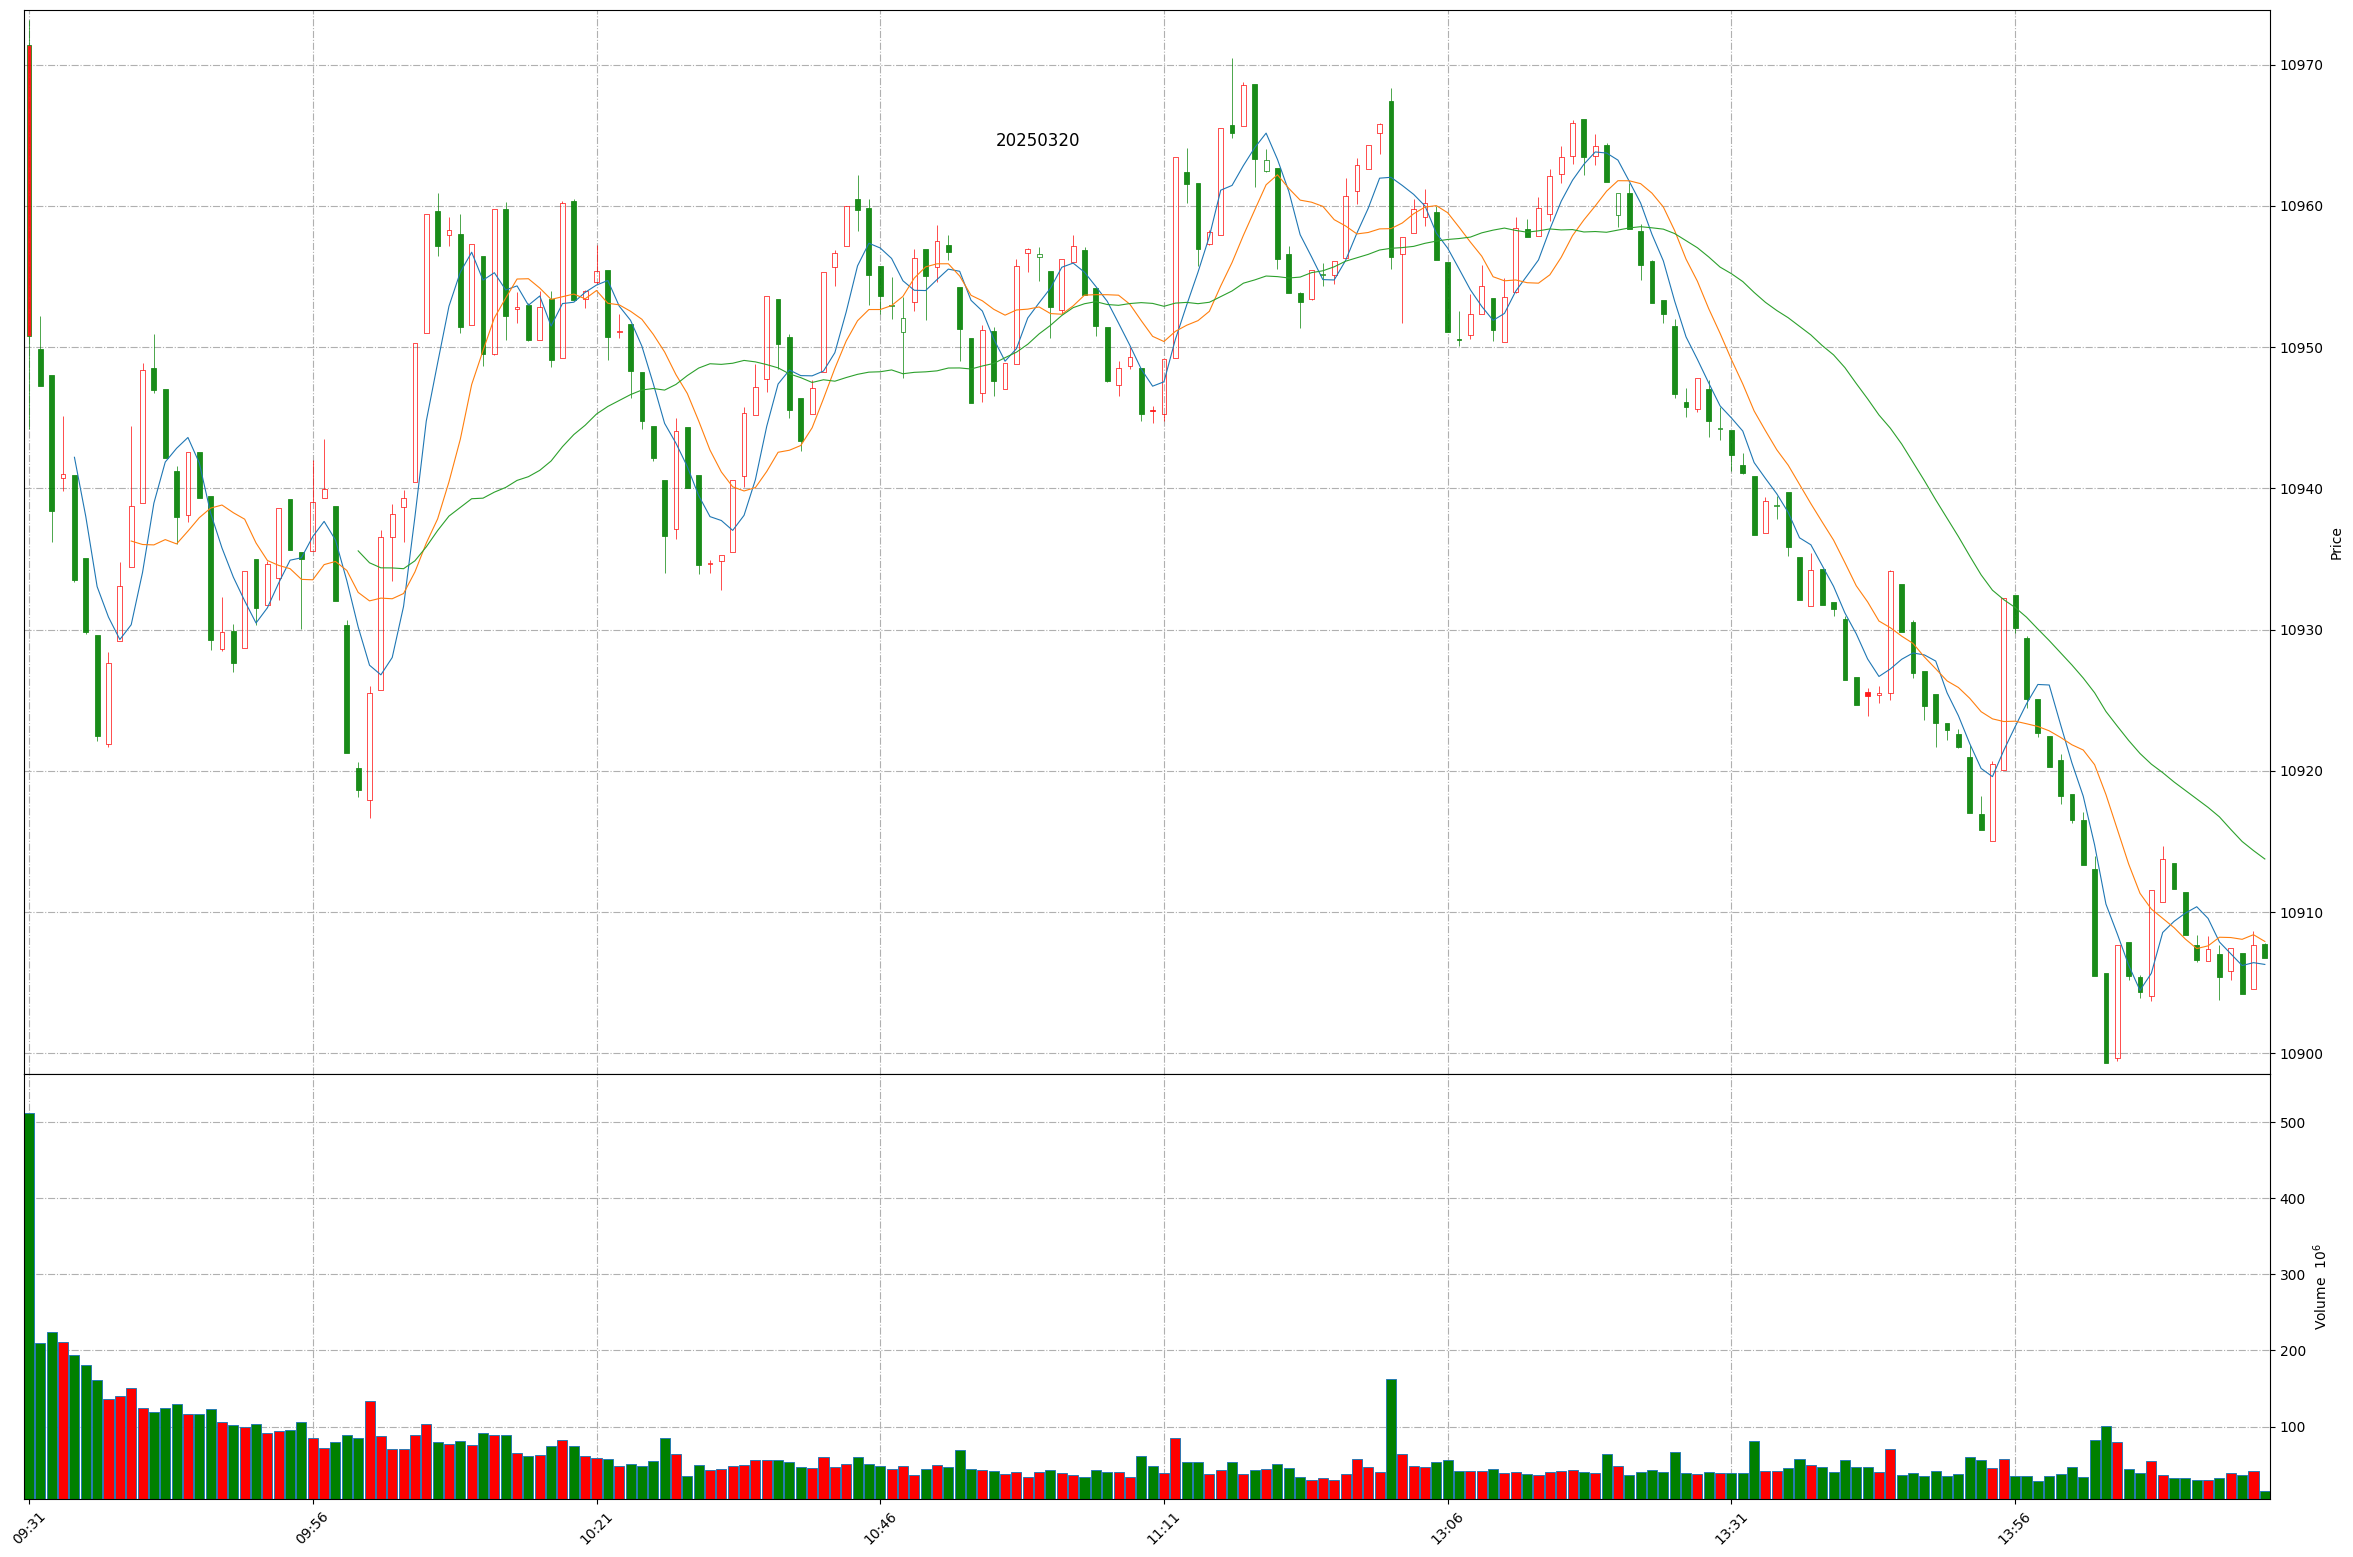
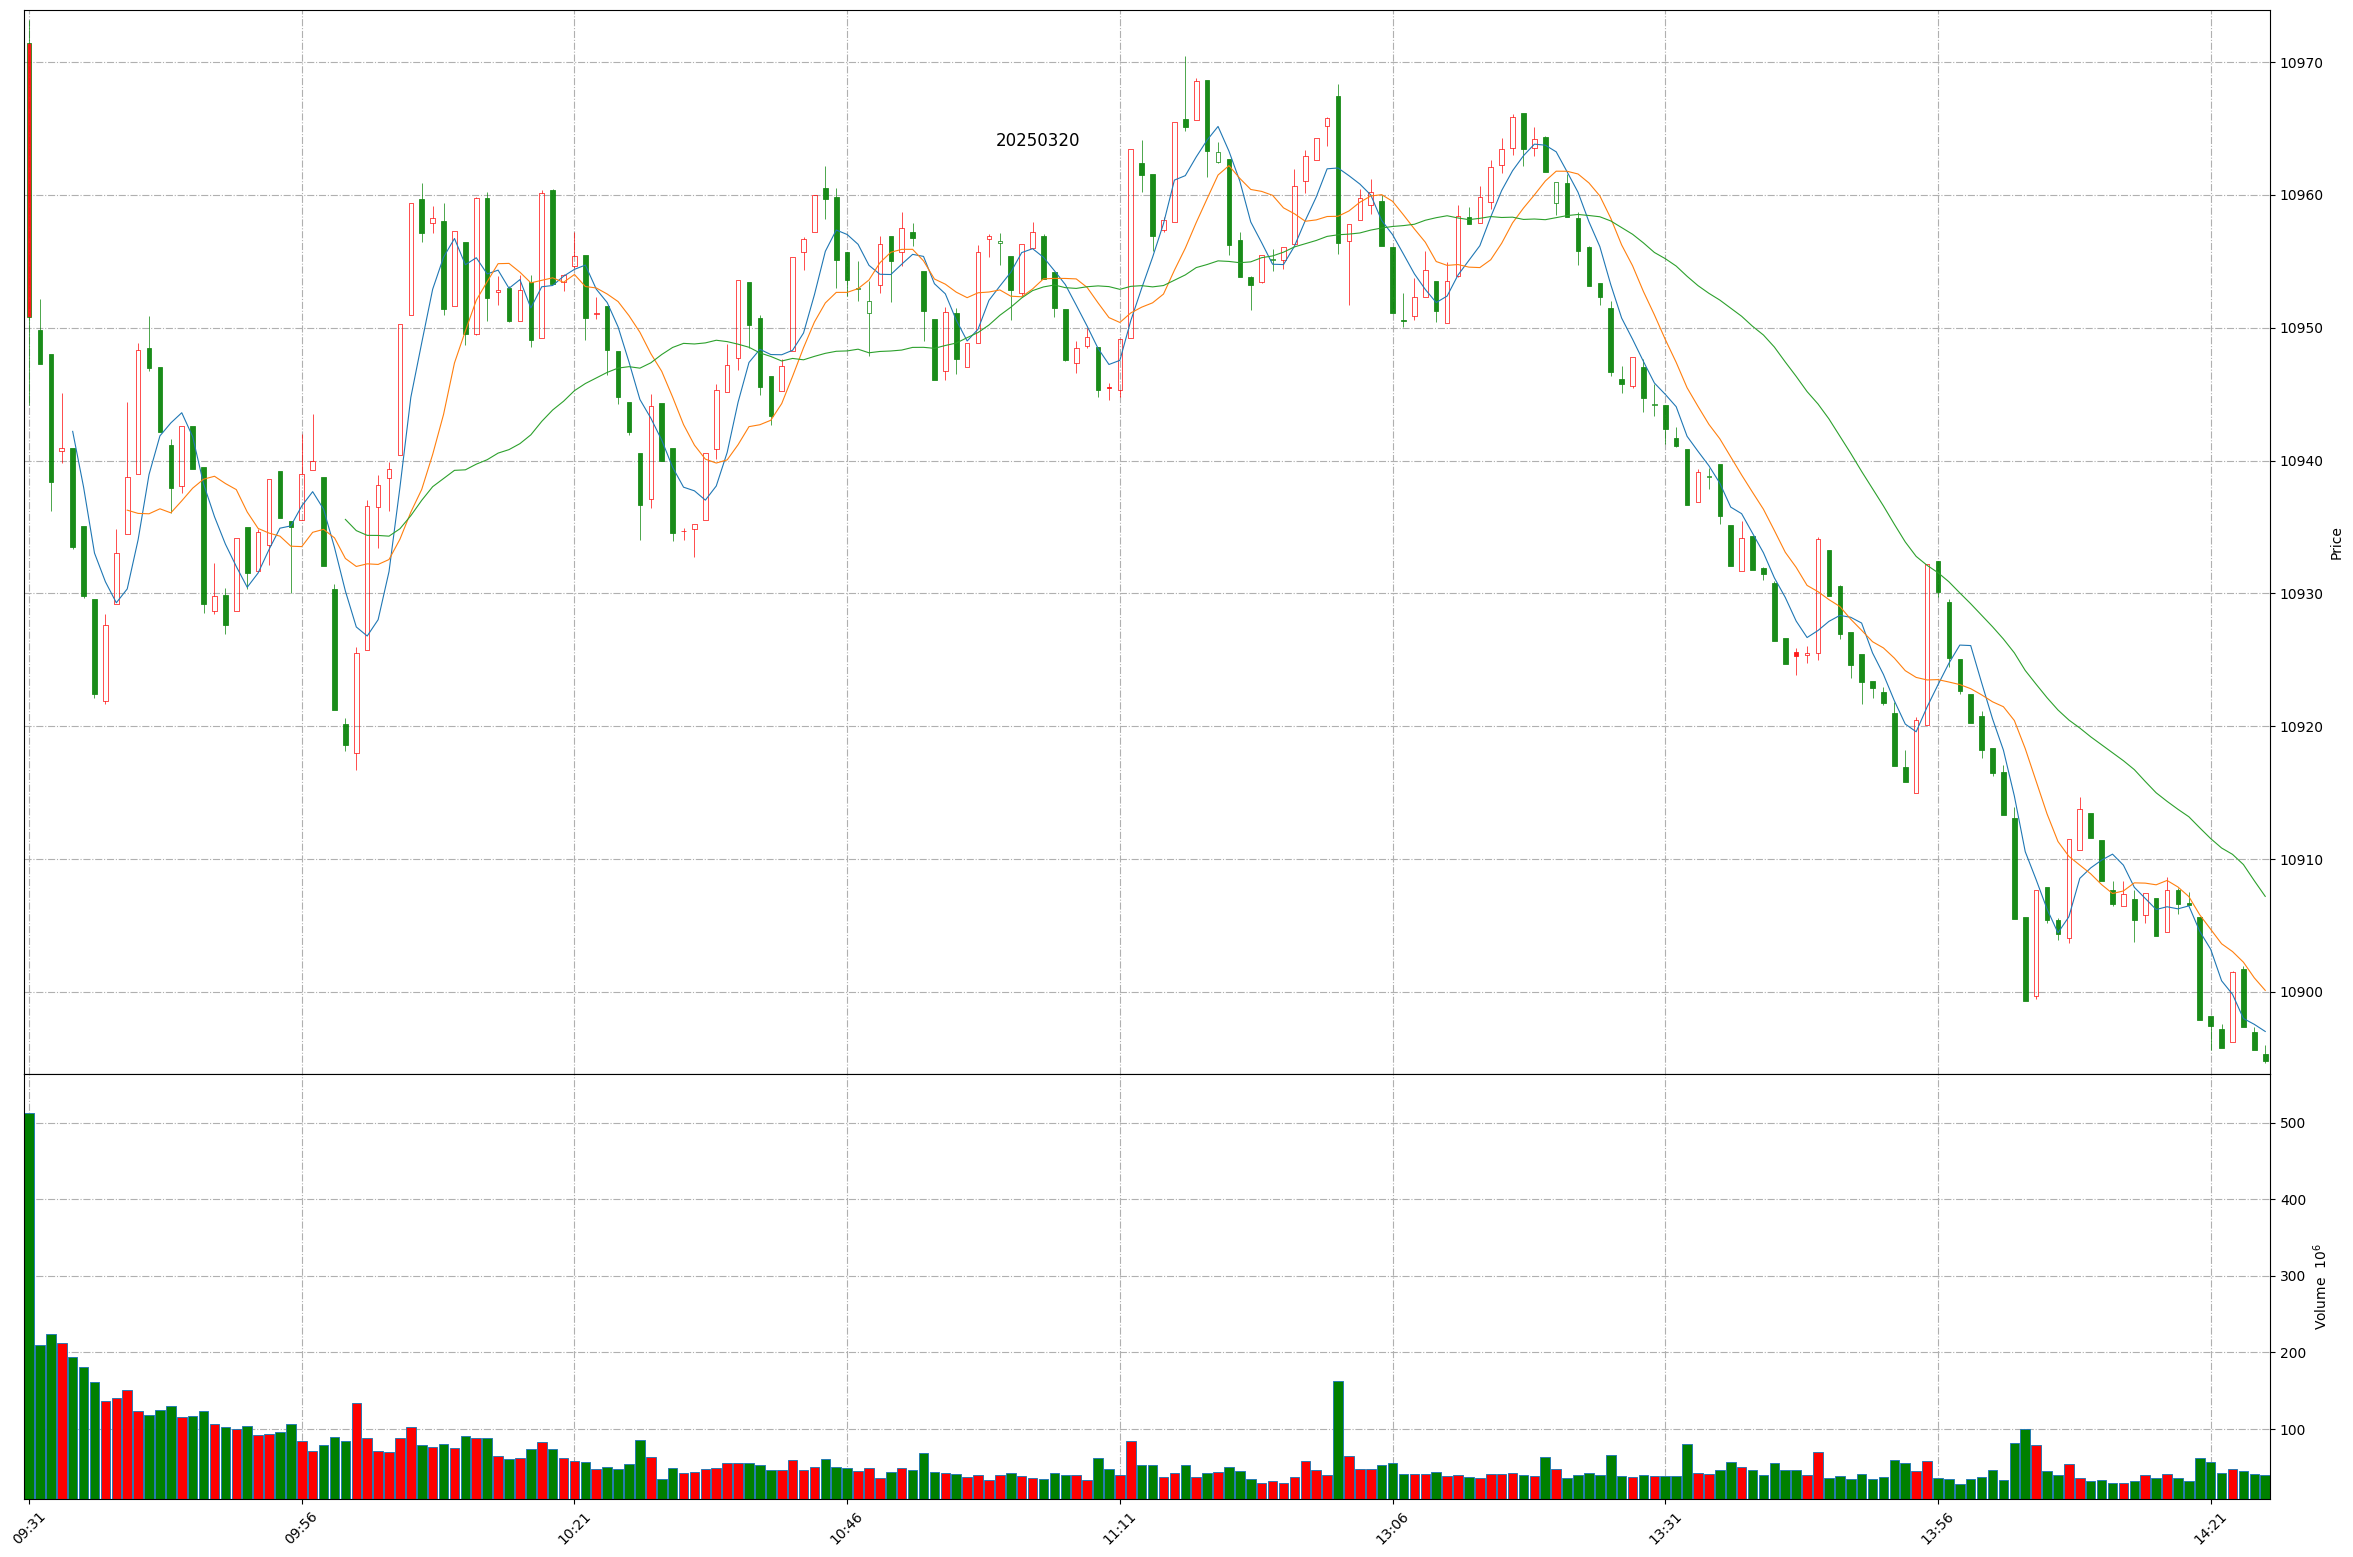
Github action update at 2025-03-20 14:26:15.

Changed region(s): [[0.031, 0.0617, 0.9618, 0.6782], [0.031, 0.8632, 0.9618, 0.9865], [0.9618, 0.1233, 0.9928, 0.1541]]

diff --git a/README.md b/README.md
@@ -1,11 +1,11 @@
 
 # Daily-A-share-market-quotes 每日 A 股指数（5min 更新）- 20250320
 
-### 上证指数 20250320 14:17
+### 上证指数 20250320 14:26
 ![](./fig/2025/3/20250320-sh000001.png)
 
-### 深证成指 20250320 14:17
+### 深证成指 20250320 14:26
 ![](./fig/2025/3/20250320-sz399001.png)
 
-### 北证50 20250320 14:17
+### 北证50 20250320 14:26
 ![](./fig/2025/3/20250320-bj899050.png)
